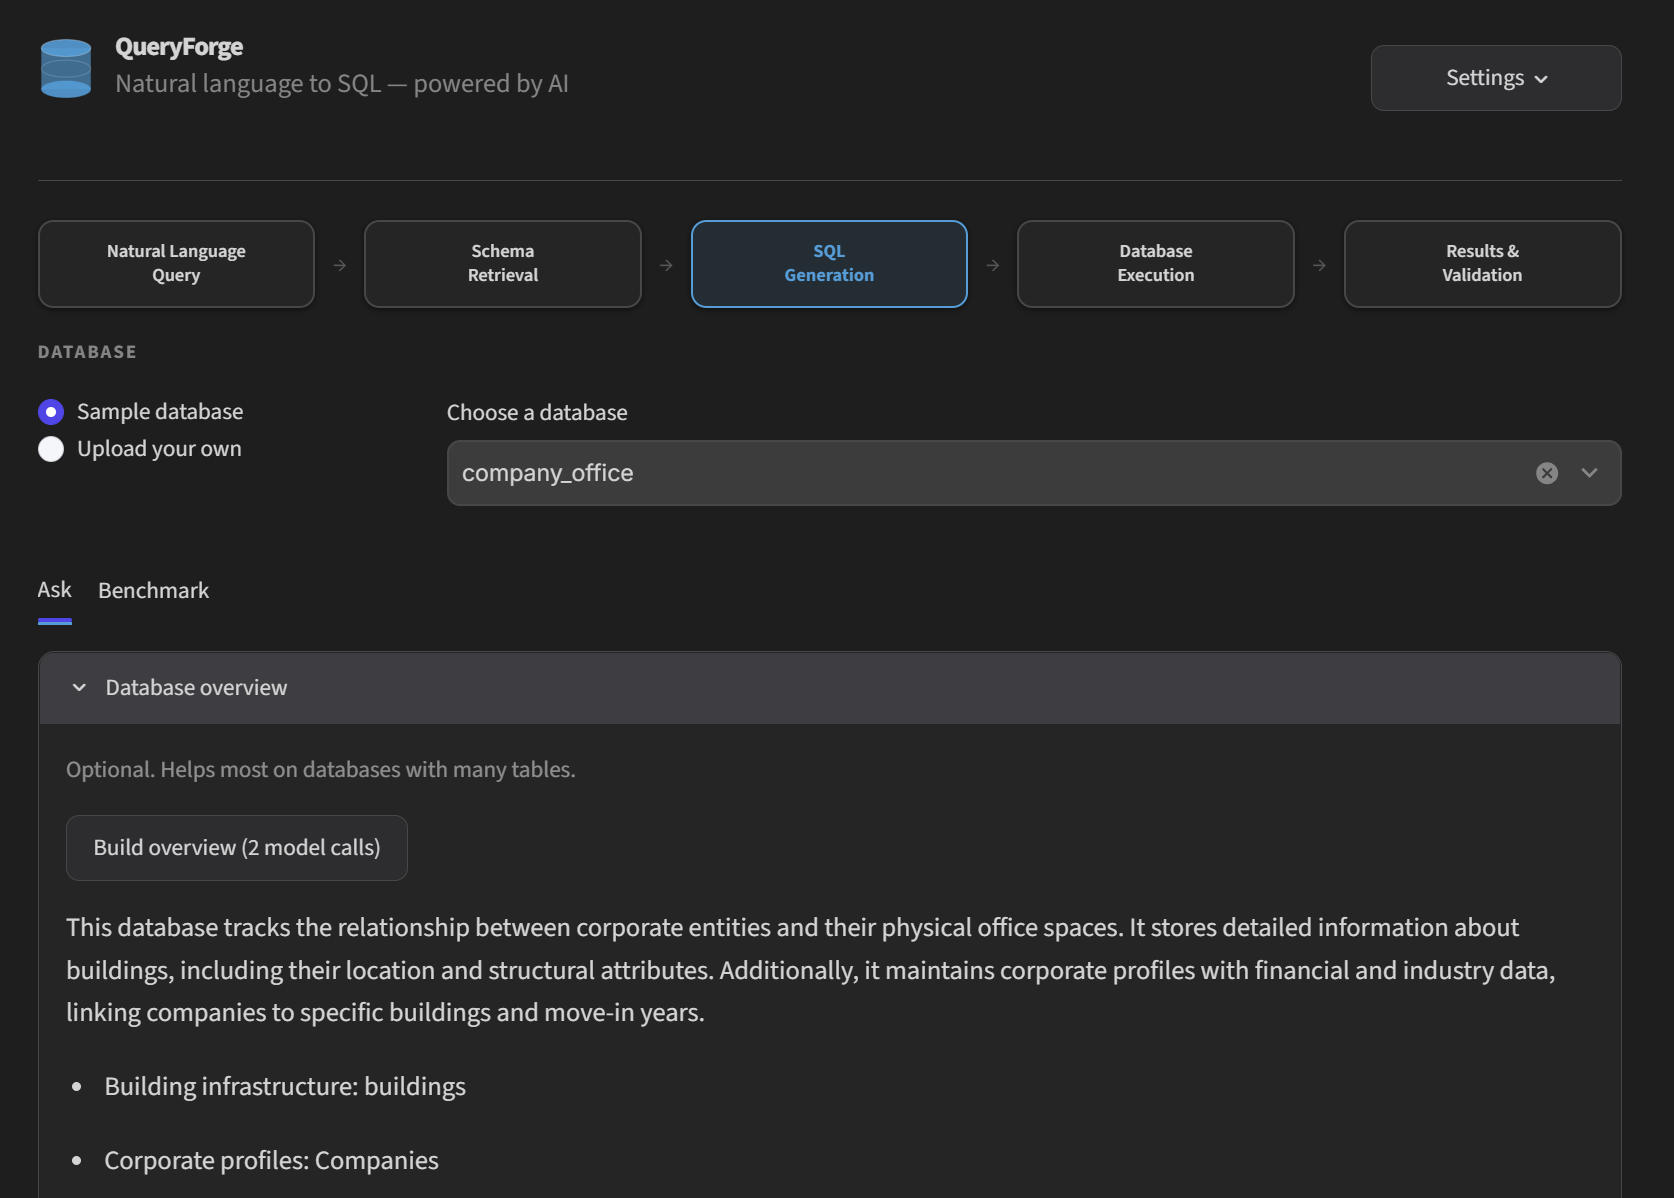
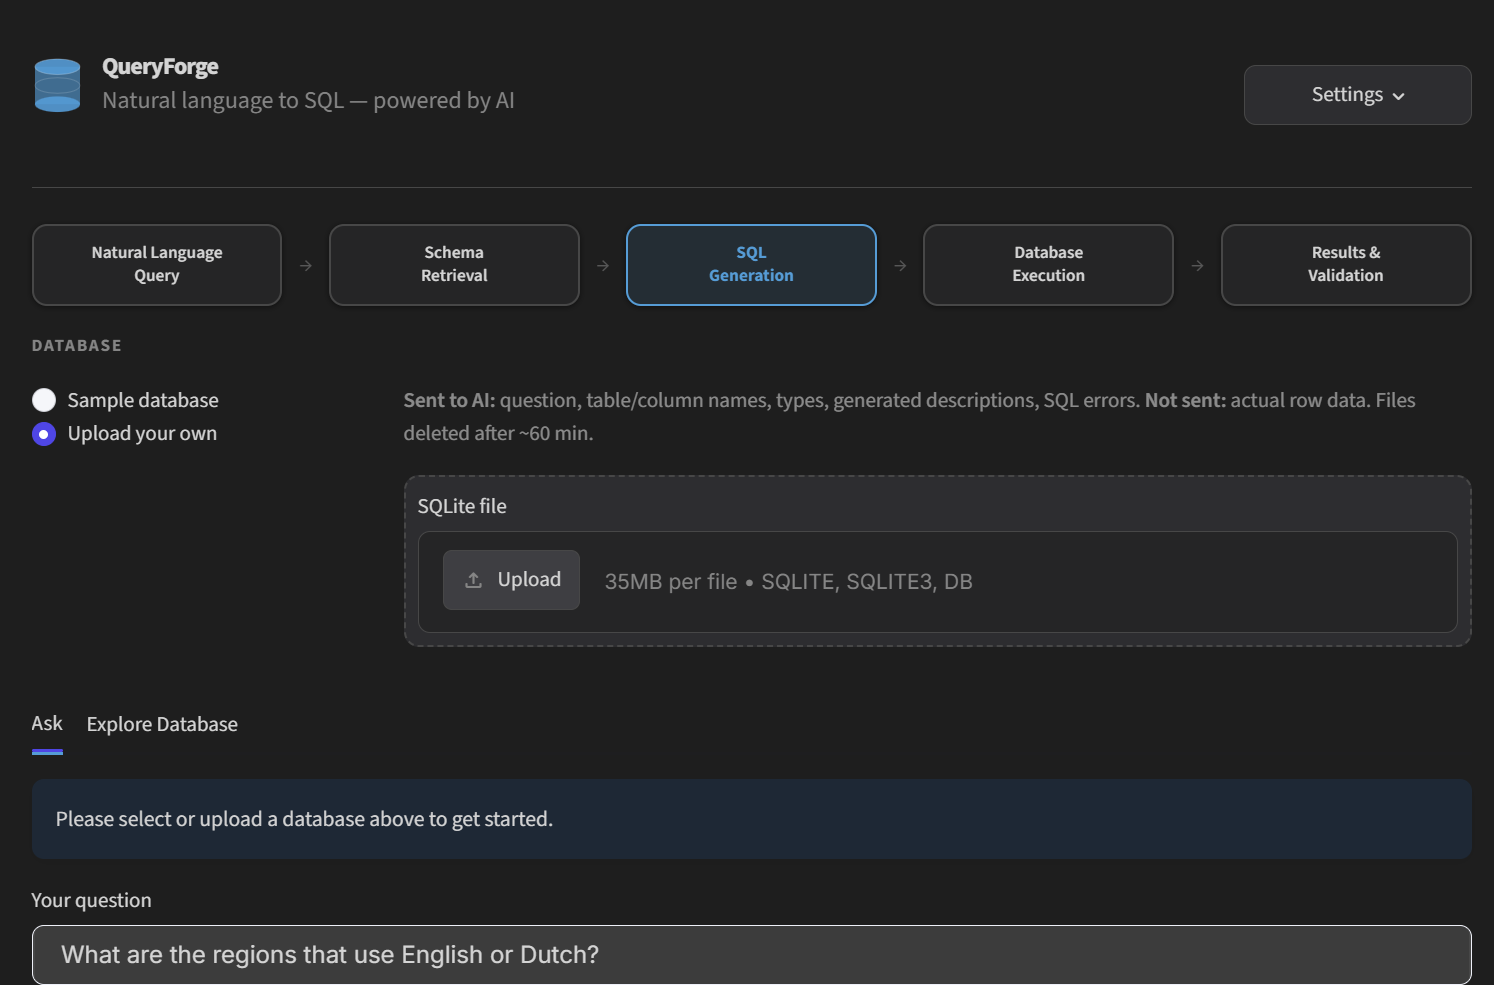
Update README with live Streamlit app link, updated screenshots, and new Explore Database preview

diff --git a/README.md b/README.md
@@ -1,13 +1,20 @@
 # 🗄 QueryForge: Agentic Text-to-SQL System
 
-An enterprise-grade, self-correcting Text-to-SQL engine built with **LangGraph**, **SQLite**, **SentenceTransformers (FAISS)**, and **Multi-Provider LLMs** (Google Gemini & Groq/LLaMA). It translates natural language questions into accurate, executable SQLite queries, executes them securely, and features an automated multi-stage self-healing and data-grounding pipeline.
+[![Streamlit App](https://static.streamlit.io/badges/streamlit_badge_black_white.svg)](https://queryforge-agent.streamlit.app/)
+[![Python 3.10+](https://img.shields.io/badge/python-3.10+-blue.svg)](https://www.python.org/downloads/)
+[![License: MIT](https://img.shields.io/badge/License-MIT-green.svg)](LICENSE)
+[![LangGraph](https://img.shields.io/badge/Orchestration-LangGraph-purple.svg)](https://github.com/langchain-ai/langgraph)
+
+An enterprise-grade, self-correcting Text-to-SQL engine built with **LangGraph**, **SQLite**, **SentenceTransformers (FAISS)**, and **Multi-Provider LLMs** (Google Gemini & Groq). It translates natural language questions into accurate, executable SQLite queries, executes them securely, and features an automated multi-stage self-healing and data-grounding pipeline.
+
+🔗 **Live Deployment:** [https://queryforge-agent.streamlit.app/](https://queryforge-agent.streamlit.app/)
 
 ---
 
 ## 📌 Table of Contents
 
 - [Overview](#-overview)
-- [User Interface & Showcase](#-user-interface--showcase)
+- [Live Demo & Showcase](#-live-demo--showcase)
 - [Key Capabilities & Features](#-key-capabilities--features)
 - [Architecture & Workflow](#%EF%B8%8F-architecture--workflow)
 - [Project Structure](#-project-structure)
@@ -39,10 +46,13 @@ This project solves these challenges by combining:
 - **Automated Schema Documentation & Data Dictionaries** (summarizing tables and domain terminology before querying).
 - **Active Data Grounding** (inspecting real database enum values and matching keywords from the question).
 - **Multi-Layered Self-Healing Execution** (AST-based text relaxation + database error feedback loops + soft error diagnostics).
+- **Interactive Database Exploration** (inspecting tables, previewing live rows, and column schemas directly in the web UI).
 
 ---
 
-## 📸 User Interface & Showcase
+## 📸 Live Demo & Showcase
+
+Try the app live without any setup: **[queryforge-agent.streamlit.app](https://queryforge-agent.streamlit.app/)**
 
 QueryForge features a modern, fully responsive, and theme-adaptive web interface supporting both **Light Mode** and **Dark Mode** (VS Code Dark+ palette), complete with fluid scaling across screen sizes.
 
@@ -51,9 +61,13 @@ QueryForge features a modern, fully responsive, and theme-adaptive web interface
 | :---: | :---: |
 | ![Light Mode](Frontend_Images/light_mode.png) | ![Dark Mode](Frontend_Images/dark_mode.png) |
 
-### 🚀 Query Execution, Agent Trace & Results
+### 🔍 Interactive Database Explorer (`Explore Database` Tab)
+![Explore Database](Frontend_Images/explore_database.png)
+*Browse all tables in the database, view row counts, inspect live table data previews, and analyze column types, primary keys, and foreign key relations.*
+
+### 🚀 Query Execution, Agent Trace & Tabular Results
 ![QueryForge Sample Output](Frontend_Images/sample_output.png)
-*Visual execution timeline (chips), interactive tabular results with pagination, one-click CSV download, generated SQL review, and deep agent step tracing.*
+*Visual execution timeline (chips), interactive tabular results, one-click CSV download, generated SQL review, and deep agent step tracing.*
 
 ---
 
@@ -81,18 +95,19 @@ QueryForge features a modern, fully responsive, and theme-adaptive web interface
 - **Tier 3 (Soft Error Diagnostics & Evidence Generation):** If relaxed queries still yield 0 rows, the system scans the database for actual values matching question tokens and feeds evidence back to the model for targeted refinement.
 
 ### 5. Multi-Provider Fallback & Rate Limiting (`llm.py`)
-- Primary and secondary LLM routing (e.g., `google` Gemini with fallback to `groq` LLaMA 3.3).
+- Primary and secondary LLM routing (e.g., `google` Gemini `gemini-3.5-flash-lite` with automatic failover to `groq` `qwen/qwen3.8-27b`).
 - Thread-safe Requests-Per-Minute (`RPM`) throttling.
 - Exponential backoff on transient network and server errors (`429`, `503`, timeouts).
 - Support for user-provided API keys in shared/public deployment settings.
 
 ### 6. Interactive Streamlit UI (`app.py`)
-- Fluidly responsive pipeline flowchart that dynamically scales across desktop, tablet, and mobile screens.
-- Choice between curated Spider sample databases and user-uploaded SQLite files (`.sqlite`, `.sqlite3`, `.db`).
-- Visual step-by-step execution timeline ("chips" indicating schema selection, grounding, generation, execution, and correction iterations).
-- Real-time tabular data display, row pagination, and one-click CSV download.
-- Full inspection tabs for the generated SQL query, executed schema, and raw model prompts.
-- Built-in database overview generation panel with progress tracking.
+- **Fluidly Responsive Flowchart:** Visual pipeline diagram dynamically scaling across mobile, tablet, and desktop screens.
+- **Horizontally Scrollable Question Pills:** Automatically serves 7 fresh randomized example questions from `dev.json` / `train` splits on page reload, styled as clean, horizontally scrollable pills.
+- **Database Explorer Tab:** Inspect table schemas, row counts, preview first 10 rows, and view foreign key references without running SQL.
+- **Dual Operating Modes:**
+  - **Local Development (`PUBLIC_MODE=0`):** Shows all 160+ Spider databases on disk with unlimited querying and local overview generation.
+  - **Public Production (`PUBLIC_MODE=1`):** Shows 10 curated sample databases with pre-cached dictionaries and session rate limit protection.
+- **Vibrant Alert Badges:** Clear amber/gold warning banners when session demo limits are reached, prompting users to insert their free API key.
 
 ---
 
@@ -155,15 +170,15 @@ The agent execution flow is orchestrated via **LangGraph**:
                                                                        │
                                                        If still 0 rows │
                                                                        ▼
-                                                             ┌──────────────────┐
-                                                             │ Layer 3: Soft    │
-                                                             │ Error Evidence   │
-                                                             └────────┬─────────┘
-                                                                      │
-                                                                      ▼
-                                                             ┌──────────────────┐
-                                                             │  Route to retry  │
-                                                             └──────────────────┘
+                                                              ┌──────────────────┐
+                                                              │ Layer 3: Soft    │
+                                                              │ Error Evidence   │
+                                                              └────────┬─────────┘
+                                                                       │
+                                                                       ▼
+                                                              ┌──────────────────┐
+                                                              │  Route to retry  │
+                                                              └──────────────────┘
 ```
 
 ---
@@ -172,7 +187,7 @@ The agent execution flow is orchestrated via **LangGraph**:
 
 ```
 .
-├── Frontend_Images/        # UI screenshots (light mode, dark mode, query execution)
+├── Frontend_Images/        # UI showcase (light_mode, dark_mode, explore_database, sample_output)
 ├── app.py                  # Streamlit web application interface
 ├── agent.py                # LangGraph StateGraph agent definition & streaming
 ├── retriever.py            # SentenceTransformer embeddings, FAISS index, FK expansion
@@ -195,7 +210,8 @@ The agent execution flow is orchestrated via **LangGraph**:
 ├── check_values.py         # CLI utility to find value occurrences across tables
 ├── debug_retrieval.py      # Quick CLI to test FAISS similarity rankings
 ├── test_agent.py           # Quick integration and sanity tests for agent workflows
-├── dict_cache/             # Cached database dictionary JSON files
+├── assets/                 # Custom brand favicon and logo assets (PNG & SVG)
+├── dict_cache/             # Pre-cached database data dictionary JSON files
 ├── spider_data/            # Curated sample databases and dev.json evaluation set
 ├── results/                # Benchmark JSONL logs, ablation charts, and analysis output
 └── uploads/                # Temporary directory for user-uploaded SQLite databases
@@ -234,7 +250,7 @@ pip install -r requirements.txt
 
 ## 🔑 Configuration (.env & Secrets)
 
-Create a `.env` file in the root directory for local development (refer to the settings below):
+Create a `.env` file in the root directory for local development:
 
 ```ini
 # --- API Keys ---
@@ -242,18 +258,18 @@ GOOGLE_API_KEY="your-google-ai-studio-api-key"
 GROQ_API_KEY="your-groq-api-key"
 
 # --- Model Selection & Provider Fallback ---
-# Comma-separated list in order of priority: e.g. "google,groq" or "google"
-LLM_CHAIN=google
+# Priority order: falls back from Google to Groq if rate-limited or unavailable
+LLM_CHAIN=google,groq
 LLM_TEMPERATURE=0
 LLM_RETRIES=3
 LLM_BACKOFF_S=10
 
 # Google Gemini Settings
-GOOGLE_MODEL=gemini-2.5-flash
+GOOGLE_MODEL=gemini-3.5-flash-lite
 GOOGLE_RPM=12
 
 # Groq Settings
-GROQ_MODEL=llama-3.3-70b-versatile
+GROQ_MODEL=qwen/qwen3.8-27b
 GROQ_RPM=10
 
 # --- Retrieval & Vector Search ---
@@ -274,7 +290,7 @@ MAX_UPLOAD_MB=35
 UPLOAD_TTL_MIN=60
 UI_ROW_LIMIT=200
 
-# Set to 1 when hosting publicly to enable visitor rate limits
+# Set to 1 when hosting publicly (Streamlit Cloud), or leave 0 for local dev
 PUBLIC_MODE=0
 DEMO_QUESTIONS_PER_SESSION=5
 DEMO_DAILY_LIMIT=200
@@ -284,32 +300,34 @@ DEMO_DAILY_LIMIT=200
 
 ## ☁ Deployment on Streamlit Community Cloud
 
-QueryForge is pre-configured for one-click deployment on [Streamlit Community Cloud](https://share.streamlit.io):
+QueryForge is live at **[https://queryforge-agent.streamlit.app/](https://queryforge-agent.streamlit.app/)** and is pre-configured for one-click deployment:
 
 1. **Push your code to GitHub:** Ensure your `.env` is ignored (already in `.gitignore`) and `requirements.txt` is committed.
-2. **Create New App:**
-   - Log into Streamlit Cloud and link your repository.
+2. **Create New App on Streamlit Cloud:**
+   - Link your GitHub repository (`7830-c/QueryForge-Agentic-Text-to-SQL-System`).
    - Set **Main file path** to `app.py`.
 3. **Configure Secrets:** Under **Advanced settings $\rightarrow$ Secrets**, paste:
    ```toml
    GOOGLE_API_KEY = "your_google_ai_studio_api_key"
    GROQ_API_KEY = "your_groq_api_key"
 
-   LLM_CHAIN = "google"
-   GOOGLE_MODEL = "gemini-2.5-flash"
-   GROQ_MODEL = "llama-3.3-70b-versatile"
+   LLM_CHAIN = "google,groq"
+   GOOGLE_MODEL = "gemini-3.5-flash-lite"
+   GROQ_MODEL = "qwen/qwen3.8-27b"
 
    PUBLIC_MODE = "1"
    DEMO_QUESTIONS_PER_SESSION = 5
    DEMO_DAILY_LIMIT = 200
    ```
-4. **Deploy:** Streamlit automatically installs dependencies from `requirements.txt` and provisions the app.
+4. **Deploy:** Streamlit will install all dependencies from `requirements.txt` and launch the application.
+
+> **Keep-Warm Automation:** A scheduled GitHub Actions workflow (`.github/workflows/keep_warm.yml`) runs periodically to ensure the Streamlit Community Cloud instance remains active and does not enter sleep mode.
 
 ---
 
 ## 🗄 Curated Sample Databases
 
-While the complete Spider benchmark spans ~900 MB (ignored by Git), the repository tracks **10 representative databases** (< 5 MB total) with pre-configured questions in `dev.json`:
+While the complete Spider benchmark spans ~900 MB, the repository tracks **10 representative databases** (< 5 MB total) with pre-cached data dictionaries in `dict_cache/`:
 
 | Database | Domain | Dev Questions | What it Tests |
 |---|---|:---:|---|
@@ -337,11 +355,11 @@ streamlit run app.py
 Open your browser at `http://localhost:8501`.
 
 #### Web UI Highlights:
-- **Choose Database:** Select any curated sample database, or upload your own `.sqlite` / `.db` file up to 35 MB.
-- **Example Questions:** Click any pre-loaded question for the selected database to populate the input immediately.
-- **Build Overview:** Click **"Build overview"** to generate domain descriptions for all tables.
+- **Choose Database:** Select any database from the dropdown, or upload your own `.sqlite` / `.db` file up to 35 MB.
+- **Example Questions:** 7 randomized questions render as sleek, horizontally scrollable pills. Click any to ask immediately.
+- **Explore Database:** Switch to the **Explore Database** tab to browse tables, row counts, preview records, and check column types and foreign keys.
 - **Ask Questions:** Type questions in plain natural language (e.g., *"Which stadium has hosted the highest number of concerts?"*).
-- **Inspect Trajectory:** Expand the agent trace to review table retrieval scores, generated SQL, error corrections, and model latency.
+- **Inspect Trajectory:** Review table retrieval scores, generated SQL, error corrections, and model latency in real time.
 - **Export Results:** View query output in an interactive table and download as CSV.
 
 ---
@@ -404,7 +422,7 @@ The project includes several specialized CLI tools for database administration a
 
 - **Inspect SQLite Schema:**
   ```bash
-  python inspect_db.py spider_data/database/concert_singer/concert_singer.sqlite [optional_keyword]
+  python inspect_db.py spider_data/database/concert_singer/concert_singer.sqlite
   ```
 - **Evaluate Retrieval Recall:**
   ```bash
@@ -434,7 +452,7 @@ The project includes several specialized CLI tools for database administration a
 | **Silent 0-Row Output** | Relaxed query still returns 0 rows | **Soft Error Evidence:** Scans database for close string matches and supplies actual data samples in the correction prompt. |
 | **Missing Foreign Keys** | Incomplete join paths in raw schema | **FK Inference:** Detects naming patterns (`<table_stem>_id`) to add join paths to the schema context. |
 | **API Rate Limits / 429** | LLM provider quotas hit | Thread-safe RPM throttling + automatic exponential backoff retry loop. |
-| **Provider Outage** | 5xx errors from primary provider | Automatic failover to secondary provider defined in `LLM_CHAIN`. |
+| **Provider Outage** | 5xx errors from primary provider | Automatic failover to secondary provider defined in `LLM_CHAIN` (Google $\rightarrow$ Groq). |
 
 ---
 
